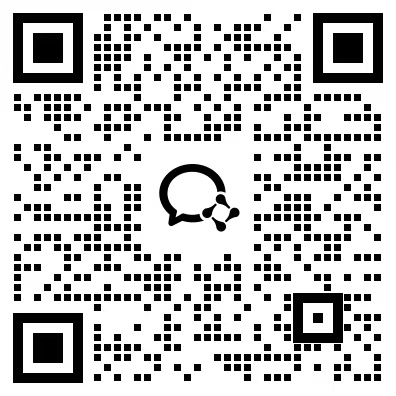
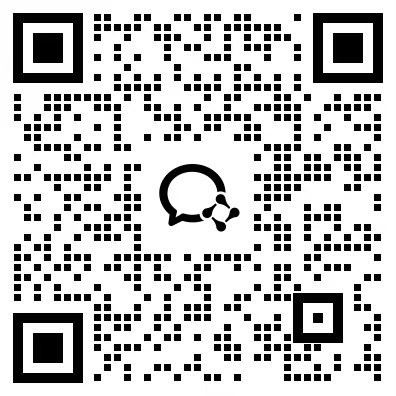
更新交流群二维码并刷新全部路径

diff --git a/docs/.vitepress/theme/components/GroupQrMenu.vue b/docs/.vitepress/theme/components/GroupQrMenu.vue
@@ -13,7 +13,7 @@ withDefaults(
   <figure class="wb-group-qr" :class="{ 'is-screen-menu': screenMenu }">
     <div class="wb-group-qr__frame">
       <img
-        src="/community/workbuddy-wechat-group-20260815.jpg"
+        src="/community/workbuddy-wechat-group-20260827.jpg"
         width="396"
         height="396"
         alt="WorkBuddy 微信交流群二维码"
